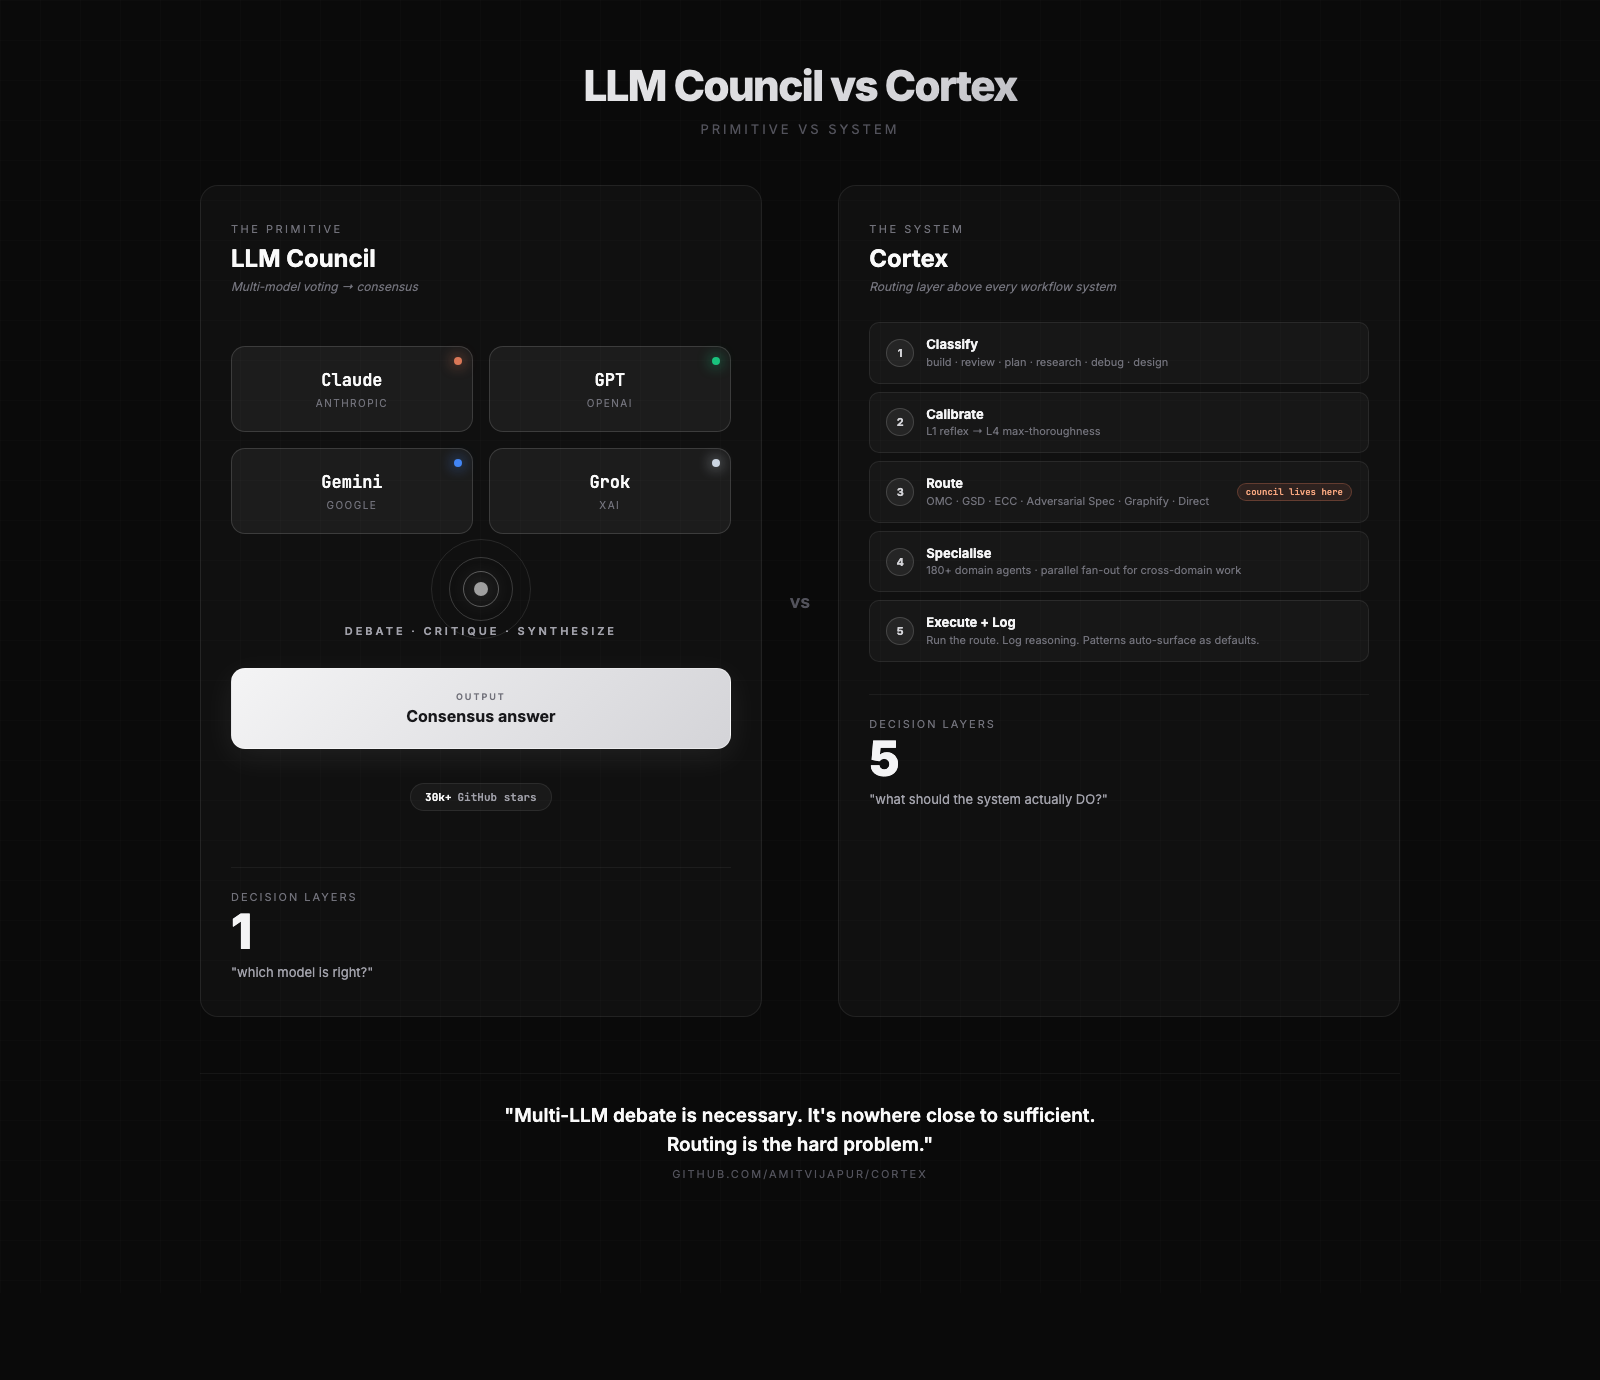
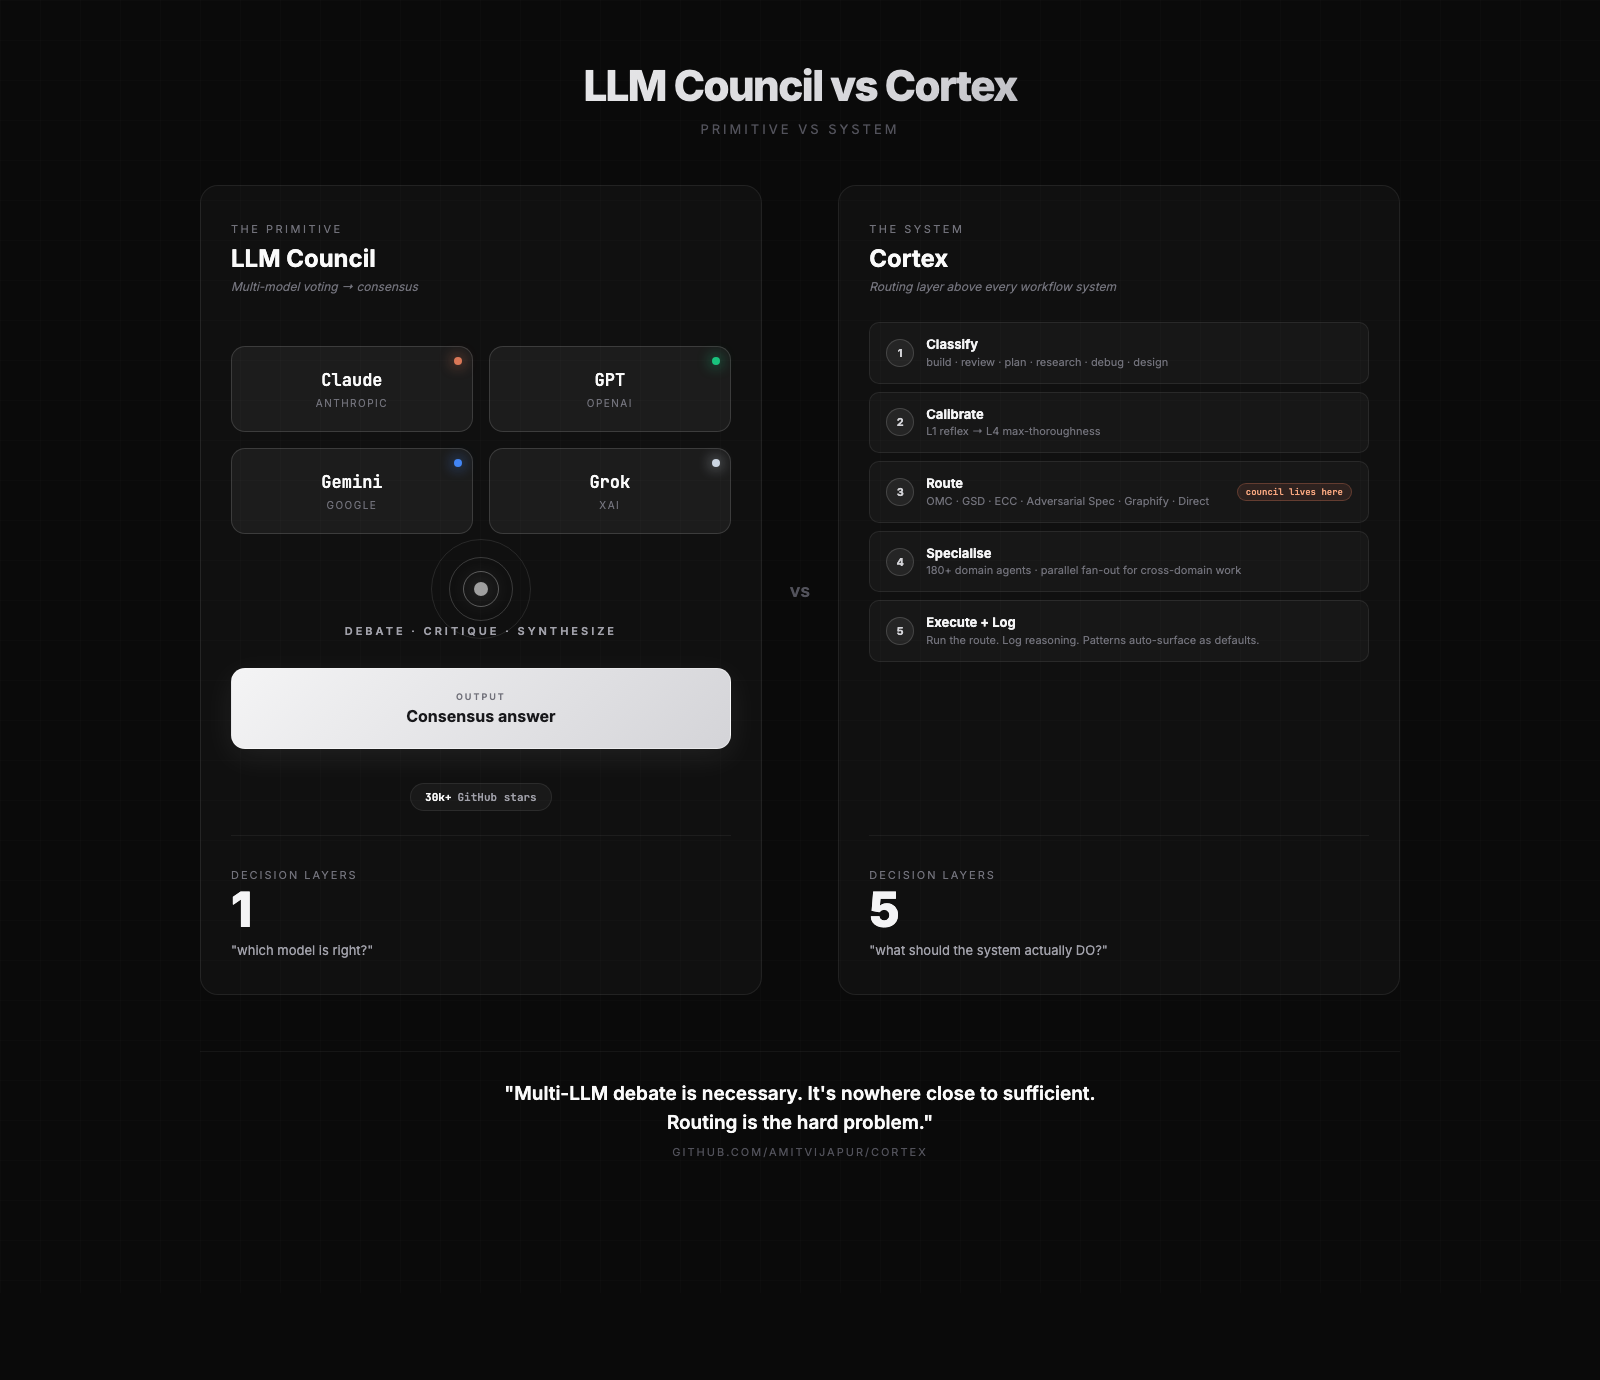
Align panel summaries to bottom — both 'Decision Layers' blocks now pin to panel bottom regardless of content above

diff --git a/assets/cortex-vs-council.html b/assets/cortex-vs-council.html
@@ -72,6 +72,8 @@
     border-radius: 18px;
     padding: 36px 30px;
     position: relative;
+    display: flex;
+    flex-direction: column;
   }
 
   .panel-label {
@@ -246,8 +248,8 @@
   }
 
   .panel-summary {
-    margin-top: 32px;
-    padding-top: 22px;
+    margin-top: auto;
+    padding-top: 32px;
     border-top: 1px solid rgba(255,255,255,0.06);
   }
 
